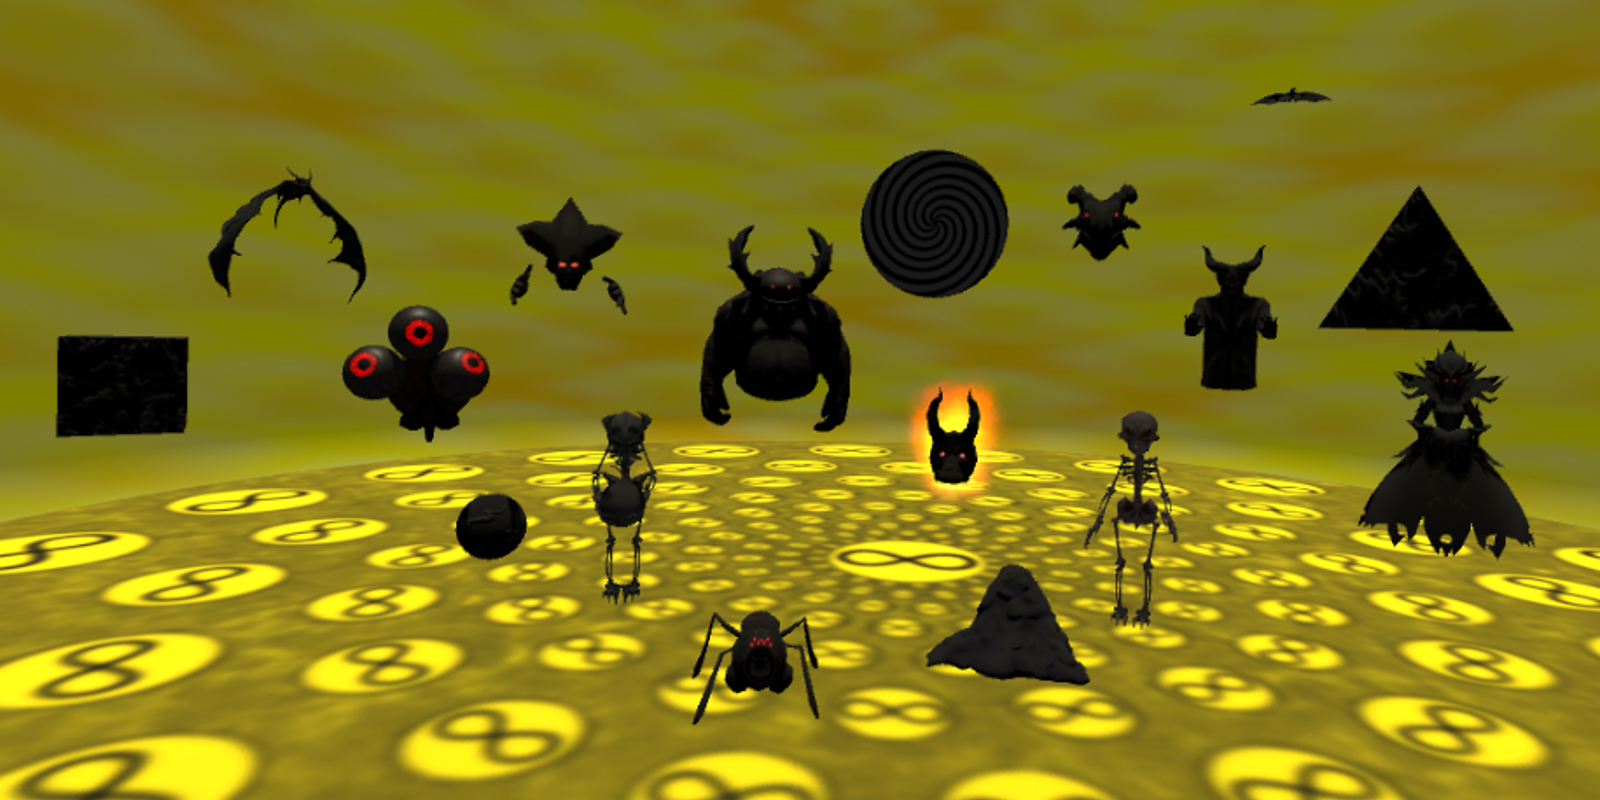
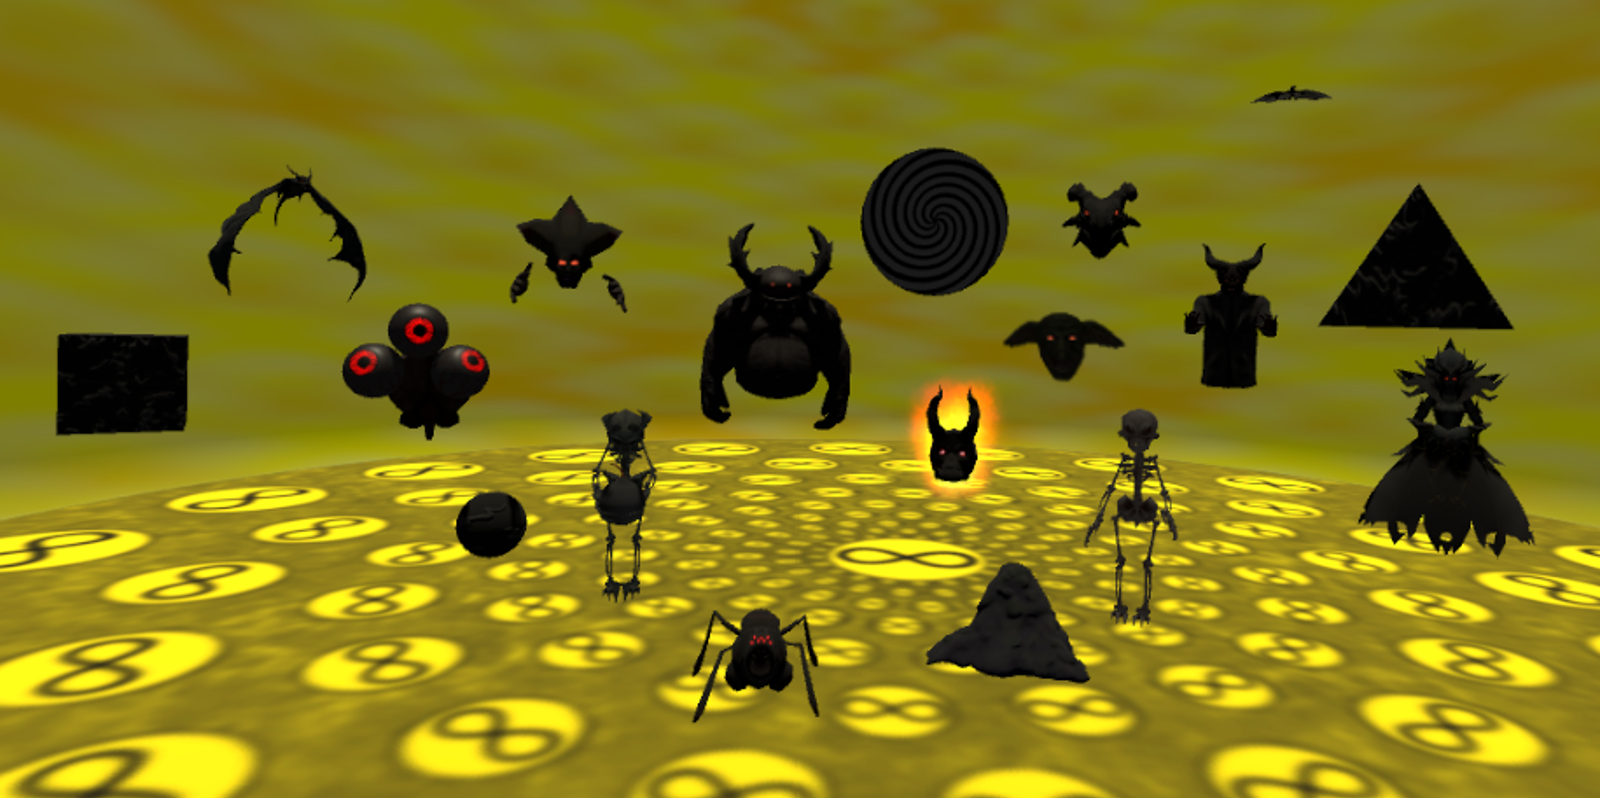
18 enemies

diff --git a/index.html b/index.html
@@ -47,7 +47,7 @@
 	<section>
 		<div id="divDeveloped">
 			<div id="divDevelopedLeft">
-				<h2 id="logotext">Developed by</h2>
+				<h2 id="logotext">Developed By</h2>
 			</div>
 			<div id="divDevelopedRight">
 				<img id="logoSSG" src="Images/SSGLogoFullHighlight1024_512.png" alt="Single Step Games logo" />
@@ -89,22 +89,24 @@
 	<section id="gameplaySection">
 		<h2>Gameplay</h2>
 		<div class="youtubeWrapper">
-			<iframe src="https://www.youtube.com/embed/F1WoA4WVK_4" frameborder="0" allowfullscreen></iframe>
+			<iframe src="https://www.youtube.com/watch?v=Aevufeib3RY" frameborder="0" allowfullscreen></iframe>
 		</div>
 		<div id="bulletPoints">
 			<ul id="bulletPointsUL">
 				<li class="bulletPoint">Fun, dynamic shoot-and-dodge gameplay</li><br>
 				<li class="bulletPoint">Activate your light powers for an exciting rush</li><br>
-				<li class="bulletPoint">Seven missions, including 17 different enemies</li><br><!-- and seven boss fights</li><br>-->
-				<li class="bulletPoint">Invincible "Experience Mode" for an enlightening experience</li><br>
+				<li class="bulletPoint">Seven missions, including 18 different enemies</li><br><!-- and seven boss fights</li><br>-->
+				<li class="bulletPoint">Near-Invincible "Easy" difficulty for an enlightening experience</li><br>
+				<li class="bulletPoint">"Mentalist" and "Psychonaut" difficulties for a challenging experience</li><br>
 				<li class="bulletPoint">Rise in the leaderboards with the endless "Endurance Mode"</li><br>
-				<li class="bulletPoint">Earn experience and improve your powers with 17 upgrades</li>
+				<li class="bulletPoint">Earn experience and improve your powers with 18 upgrades</li>
 			</ul>
 		</div>
 	</section>
 	<div class="bar"></div>
 	<section class="sectionWithFloats" itemscope itemtype="http://schema.org/Corporation">
-		<h2>More Info</h2>
+		<h2 class="lineHeightZero">More Info</h2>
+		<br>
 		<h3 class="lineHeightZero">Follow us on social media</h3>
 		<div id="socialText">
 			<p><b>facebook.com/SingleStepGames          @SingleStepGames</b></p>

diff --git a/ssg_shared.css b/ssg_shared.css
@@ -194,8 +194,8 @@ section
 	display:flex;
 	-webkit-align-items:center;
 	align-items:center;
-	-webkit-justify-content:center;
-	justify-content:center;
+	/*-webkit-justify-content:center;
+	justify-content:center;*/
 }
 
 #divDevelopedLeft
@@ -204,6 +204,7 @@ section
 	display:inline-block;
 	width:50%;
 	float:left;
+	font-size:1vw;
 }
 
 #divDevelopedRight
@@ -218,6 +219,7 @@ section
 {
 	display:inline;
 	float:right;
+	line-height:0;
 }
 
 #logoSSG
@@ -401,14 +403,24 @@ footer p a:link,footer p a:visited
 {
 	
 	/*font 20% less*/
-	h2
+	h2, #logotext, h2.lineHeightZero
 	{
-		font-size:280%;
+		font-size:280% !important;
 	}
 	
-	h3
+	h3, h3.lineHeightZero
 	{
-		font-size:200%;
+		font-size:200% !important;
+	}
+	
+	#logotext
+	{
+		font-size:0.7vw;
+	}
+	
+	h3.lineHeightZero
+	{
+		font-size:0.6vw;
 	}
 	
 	#story, #socialText
@@ -431,14 +443,24 @@ footer p a:link,footer p a:visited
 {	
 
 	/*font 40% less*/
-	h2
+	h2, #logotext, h2.lineHeightZero
 	{
-		font-size:210%;
+		font-size:210% !important;
+	}
+
+	h3, h3.lineHeightZero
+	{
+		font-size:150% !important;
 	}
 	
-	h3
+	#logotext
 	{
-		font-size:150%;
+		font-size:0.7vw;
+	}
+	
+	h3.lineHeightZero
+	{
+		font-size:0.6vw;
 	}
 	
 	#story, #socialText
@@ -482,14 +504,24 @@ footer p a:link,footer p a:visited
 	}
 	
 	/*font 50% less*/
-	h2
+	h2, #logotext, h2.lineHeightZero
 	{
-		font-size:175%;
+		font-size:175% !important;
 	}
 	
-	h3
+	h3, h3.lineHeightZero
 	{
-		font-size:125%;
+		font-size:125% !important;
+	}
+	
+	#logotext
+	{
+		font-size:0.7vw;
+	}
+	
+	h3.lineHeightZero
+	{
+		font-size:0.6vw;
 	}
 	
 	#story /*lil more than 50%*/
